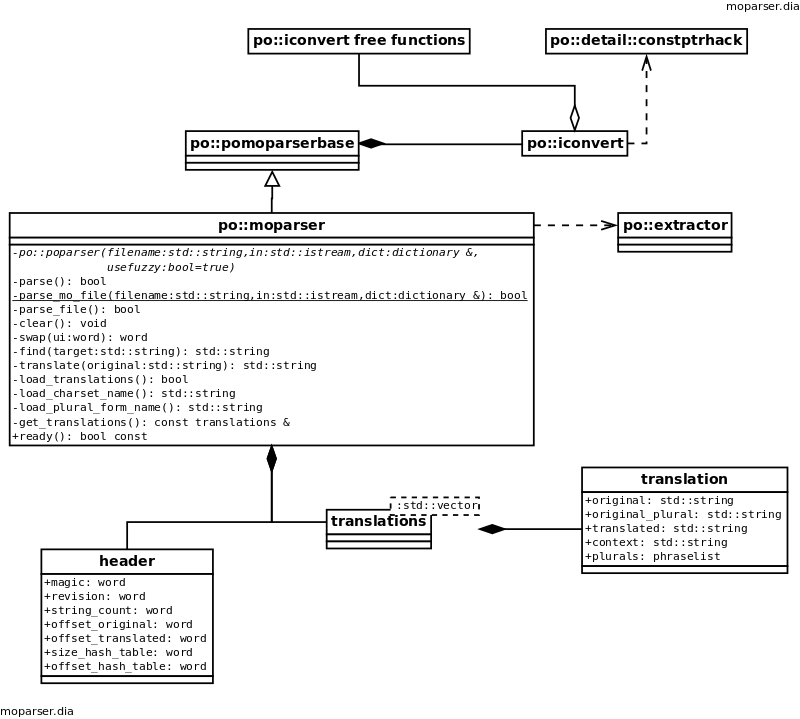
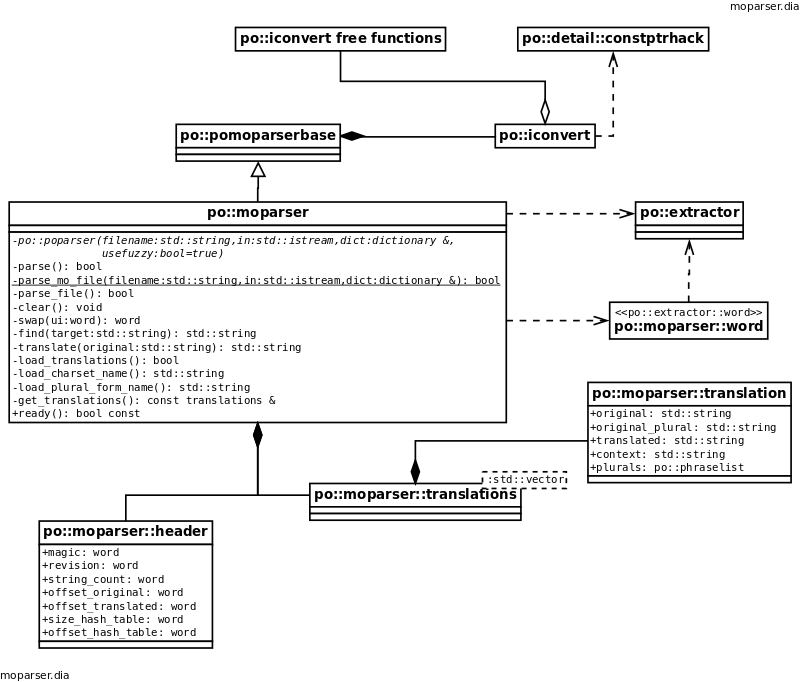
Documentation update nearly finished.

diff --git a/doc/latex/tex/potext-developer-guide.tex b/doc/latex/tex/potext-developer-guide.tex
@@ -101,7 +101,6 @@
    Our main goal is to make it easy and lightweight to internationalize
    an application while sticking with \textsl{GNU Gettext}
    conventions.
-
    The \textsl{GNU Gettext} manual (\cite{gettextman}) is an important
    resource used in writing \textsl{Potext}.
    Also important is the source code at
@@ -110,7 +109,10 @@
    Note that \textsl{Potext} requires the usage of \texttt{C++17}
    and above. It support builds using the \textsl{GNU} and \textsl{Clang}
    compilers.
-   \textsl{Windows} support will be provided, but it is not ready yet.
+   It also requires the use of \textsl{Meson 1.1} and above.
+   See the \texttt{INSTALL} file.
+   \textsl{Windows} support (apart from \textsl{Mingw} and
+   \textsl{Cygwin} will be provided, but it is not ready yet.
 
 \subsection{Additions to Tinygettext}
 \label{subsec:introduction_additions}
@@ -140,10 +142,10 @@
 
    With these additions, \textsl{Potext} should be relatively straightforward
    to use in a new \texttt{C++} application.
-
    The tar-ball
    \texttt{extras/code/mini-potext-test.tar.xz}
-   contains a simple application.
+   contains a simple application using \textsl{Potext} as a sub-project
+   stored in \textsl{GitHub}..
    Unpack the tar-ball into its own directory
    and build it by running its
    \texttt{work.sh} script.
@@ -169,11 +171,16 @@
 \label{subsec:introduction_changes}
 
    \begin{itemize}
-      \item Changed the coding style and naming conventions.
-      \item Use of initializer lists for initializing various containers.
+      \item Changed the coding style and naming conventions for
+         (perhaps) easier reading..
+      \item Use of initializer lists, rather than brute-force
+         assignment statements, for initializing various containers.
       \item Use of the \texttt{auto} keyword in declarations and
          \texttt{for}-loops.
-      \item Many additional \texttt{using} directives.
+      \item Many additional \texttt{using} directives, most hidden
+         in the \texttt{po} namespace or in a class declaration..
+      \item A few additional helper classes have been added to provide
+         new features.
    \end{itemize}
 
    These changes are meant to make the code easier to read and understand.
@@ -183,13 +190,15 @@
 
    \begin{itemize}
       \item Hammer on this code in \textsl{Windows}.
-      \item Work out the installation process; including \texttt{.po} file
-         installation and copying to the user's configuration directory.
+      \item Work out the installation process; including \texttt{.po}
+         and \texttt{.mo} file
+         installation and copying (if desired)
+         to the user's configuration directory.
       \item Handle capitals, punctuation, etc. without additional
-         \texttt{.po} entries.
+         \texttt{.po}/\texttt{.mo} entries.
       \item Get the handling of categories (e.g. \texttt{LC\_TIME}) to
          work. However, note that the category is almost always
-         \texttt{LC\_MESSAGES}.
+         \texttt{LC\_MESSAGES}, so this is a low priority.
       \item Handle the "C" locale as discussed below.
       \item Allow for the user to override the character set via the
          \texttt{OUTPUT\_CHARSET} environment variable.
@@ -271,7 +280,8 @@
          \end{itemize}
             At present, \textsl{Potext} does not support directories of
             \texttt{.mo} files. It might, in the future.
-      \item \texttt{LC\_MESSAGES}. A more common convention for
+      \item \texttt{\$modir} and \texttt{LC\_MESSAGES}.
+            A more common convention for
             \texttt{*.mo} files on \textsl{UNIX} is to put them in
          \begin{itemize}
             \item \texttt{/usr/share/locale/<language>/LC\_MESSAGES/PACKAGE.mo}
@@ -288,7 +298,8 @@
 \label{subsec:introduction_home_potext_configuration}
 
    The \textsl{Potext} library also supports installing the
-   \texttt{*.po} translation files in the user's configuration area.
+   \texttt{*.po} and \texttt{*.mo} translation files in the
+   user's configuration area.
    The conventions we use are:
 
    \begin{itemize}
@@ -323,8 +334,8 @@
          \texttt{PACKAGE.mo} by \texttt{msgunfmt}.
    \end{itemize}
 
-   Also refer to the \textsl{Python} packages \textsl{polib}
-   and \textsl{poedit}.
+   Also refer to the \textsl{Python} packages \textsl{polib} (\cite{polib})
+   and \textsl{poedit} (\cite{poedit}).
 
 %----------------------------------------------------------------------------
 % Additional Chapters

diff --git a/doc/latex/tex/tests.tex b/doc/latex/tex/tests.tex
@@ -6,7 +6,7 @@
 % \library     Documents
 % \author      Chris Ahlstrom
 % \date        2024-02-09
-% \update      2024-03-15
+% \update      2024-04-07
 % \version     $Revision$
 % \license     $XPC_GPL_LICENSE$
 %
@@ -89,11 +89,36 @@
    test program exit.
    Not sure why the latter aren't "flushed" immediately.
 
+   Here are the tests provided:
+
+    \begin{itemize}
+        \item \texttt{helloworld}
+        \item \texttt{hellopotext}
+        \item \texttt{po\_parser\_test}
+        \item \texttt{mo\_parser\_test}
+        \item \texttt{potext\_test}
+    \end{itemize}
+
+   The code is in the \texttt{library/tests} directory, and the
+   executables are written to \texttt{build/library/tests}
+   directory.
+
+\subsection{Hello World}
+\label{subsec:potext_hello_world}
+
+   \texttt{helloworld}.
+   This test is the original from the \textsl{tinygettext} project.
+   Not much done with it; it includes a copy of the
+   \texttt{gettext.h} header file and calls some of the stock
+   \textsl{GNU Gettext} functions.
+
 \subsection{Hello Potext}
 \label{subsec:potext_hello_potext}
 
-   This test is a work in progress.
-   Without arguments, it runs through basic tests of the following
+   \texttt{hellopotext}.
+   This application is a good test of \textsl{potext} from the
+   perspective of a developer wanting to use it in an application.
+   Without arguments, this test runs through basic tests of the following
    functions.
    The main domain is provided to \texttt{po::init\_app\_locale()}
    which should normally be called in the applications's
@@ -155,14 +180,48 @@
    \end{itemize}
 
    Additional arguments can change the default domain.
-   We will document these real soon now.
+   We will document these \textsl{real soon now}.
 
-\subsection{Potext Test Program}
+\subsection{PO Parser Test}
+\label{subsec:potext_Po_parser_test_program}
+
+   \texttt{po\_parser\_test}
+   This small application tests the ability to parse some
+   sample \texttt{.mo} files.
+
+   To run this test, simply supply the name of a \texttt{.po} file and
+   examine the results.
+   Any \texttt{.po} file can be provided.
+
+   Without arguments, this application lists some options and stock
+   test \texttt{.po} files to run.
+
+\subsection{MO Parser Test}
+\label{subsec:potext_mo_parser_test_program}
+
+   \texttt{mo\_parser\_test}
+   This small application tests the ability to parse some
+   sample \texttt{.mo} files.
+
+   To run this test, simply supply the name of a \texttt{.mo} file and
+   examine the results.
+   Any \texttt{.mo} file can be provided.
+
+   Without arguments, this application lists some options and stock
+   test \texttt{.mo} files to run.
+
+   In progress.
+   We need to add some more files to be able to test all of the most
+   important aspects of \texttt{.mo} files.
+
+\subsection{Potext Test}
 \label{subsec:potext_test_program}
 
-   This small application is the best test of \textsl{potext} from the
+   \texttt{potext\_test}
+   This application is another good test of \textsl{potext} from the
    perspective of a developer wanting to use it in an application.
    Running it without any arguments shows a list of 8 tests.
+   These tests are run by supplying the appropriate command-line arguments.
    These are reflected in the following sections.
 
 \subsubsection{Potext Test 'Translate'}

diff --git a/doc/latex/tex/architecture.tex b/doc/latex/tex/architecture.tex
@@ -175,11 +175,13 @@
          This function scans a directory for \texttt{.po} files
          and creates a \texttt{dictionary} for each one.
       \item \texttt{make\_dictionary()}.
-         This helper function opens a file using \texttt{std::filesystem}
+         This helper function opens a file using the \texttt{std::filesystem}
+         class function \texttt{open\_file}.
          It then creates an \texttt{std::shared\_ptr} for a new
          \texttt{dictionary} and calls the static function
          \texttt{po::poparser::parse\_po\_file()}.
-         Then it calls \texttt{po::nlsbindings::set\_binding\_values()}
+         Then it calls the member function
+         \linebreak \texttt{po::nlsbindings::set\_binding\_values()}
          to create a corresponding binding object.
       \item \texttt{textdomain()}.
          This function sets the current domain to the given domain name.
@@ -206,17 +208,24 @@
 
 \begin{figure}[H]
    \centering 
-   \includegraphics[scale=0.4]{pomoparserbase.png}
+   \includegraphics[scale=0.65]{pomoparserbase.png}
    \caption{PO/MO Parser Base (po::pomoparserbase)}
    \label{fig:potext_pomoparserbase}
 \end{figure}
 
-   TODO
+   For version 0.2, we have moved the file-reading support, dictionary class,
+   and \texttt{iconvert} class
+   into a base class common to the \texttt{moparser} and
+   \texttt{poparser} classes.
+
+   Other than that commonality, the two parser class are somewhat different in
+   how they parse, since the \texttt{.po} file is text, and
+   the \texttt{.mo} file is binary.
 
 \subsection{Poparser Class}
 \label{subsec:potext_poparser_class}
 
-   The \texttt{po::poparser} class is a reimplementation of the
+   The \texttt{po::poparser} class is a serious reimplementation of the
    \texttt{tinygettext::POParser} class.
 
 \begin{figure}[H]
@@ -263,7 +272,7 @@
 
 \begin{figure}[H]
    \centering 
-   \includegraphics[scale=0.4]{moparser.png}
+   \includegraphics[scale=0.65]{moparser.png}
    \caption{MO Parser (po::moparser)}
    \label{fig:potext_moparser}
 \end{figure}
@@ -277,10 +286,13 @@
    read a file and fill in an empty \texttt{dictionary}.
 
    The format of the \texttt{.mo} file is described in the \texttt{moparser}
-   module's top banner. The format is dissected and described further in the
-   files
-   \texttt{library/tests/mo/es/newt.hex} and
-   \texttt{library/tests/mo/de/helloworld.hex}.
+   module's top banner. The format is dissected and described further in these
+   files:
+
+   \begin{verbatim}
+      library/tests/mo/es/newt.hex
+      library/tests/mo/de/helloworld.hex
+   \end{verbatim}
 
    Note the \texttt{moparser::header} structure, which provides
    the layout of the first few words in the \texttt{.mo} file.
@@ -309,7 +321,7 @@
 
 \begin{figure}[H]
    \centering 
-   \includegraphics[scale=0.5]{extractor.png}
+   \includegraphics[scale=0.4]{extractor.png}
    \caption{Binary Data Extractor (po::extractor)}
    \label{fig:potext_extractor}
 \end{figure}

diff --git a/doc/latex/tex/references.tex b/doc/latex/tex/references.tex
@@ -37,6 +37,18 @@
    \url{https://www.gnu.org/software/gettext/manual/gettext.pdf}.
    2023.
 
+   \bibitem{poedit}
+   Poedit Team.
+   \emph{Gettext translation for PHP, Python, etc.}
+   \url{https://poedit.net/}.
+   2023.
+
+   \bibitem{polib}
+   Polib Team.
+   \emph{Gettext file creation, manipulation, etc. for Python}
+   \url{https://pypi.org/project/polib/}.
+   2023.
+
    \bibitem{simplegettext}
    Laurent Cozic
    \emph{Simple Gettext on GitHub.}

diff --git a/library/tests/mo_parser_test.cpp b/library/tests/mo_parser_test.cpp
@@ -30,7 +30,7 @@
  * \library       potext
  * \author        Chris Ahlstrom
  * \date          2024-04-02
- * \updates       2024-04-03
+ * \updates       2024-04-07
  * \license       See above.
  *
  */
@@ -75,6 +75,7 @@ po::phraselist s_all_files
     "library/tests/mo/es/colord.mo",
     "library/tests/mo/es/garcon.mo",
     "library/tests/mo/es/new.mo"
+    "library/tests/mo/de/helloworld.mo"
 };
 
 } // namespace
